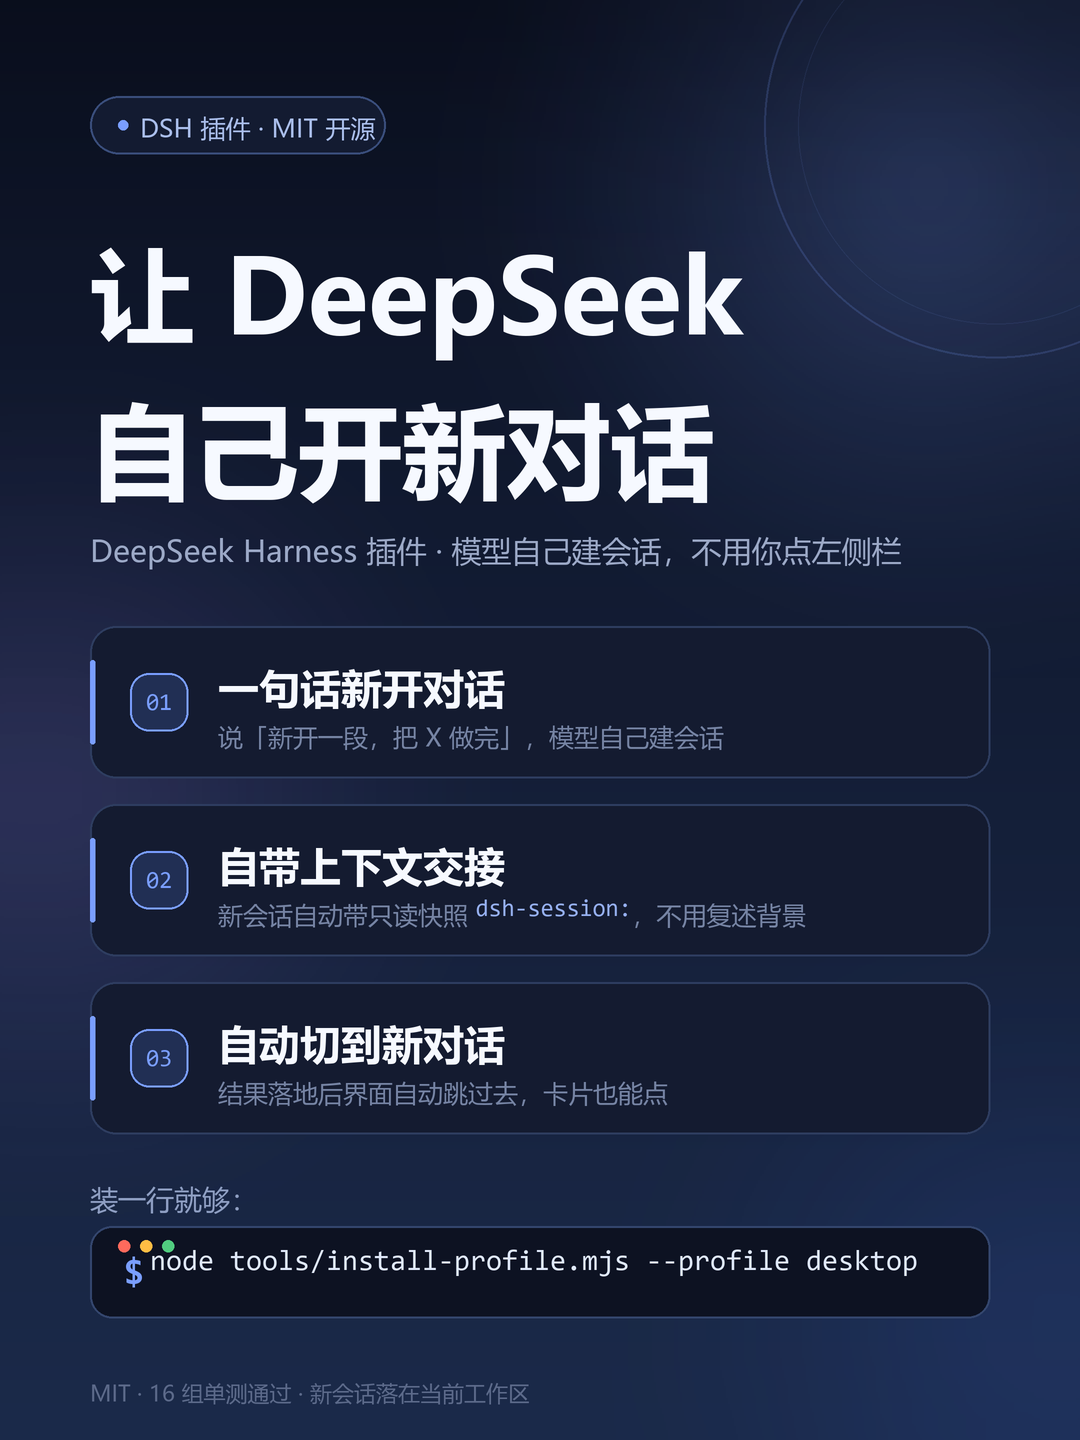
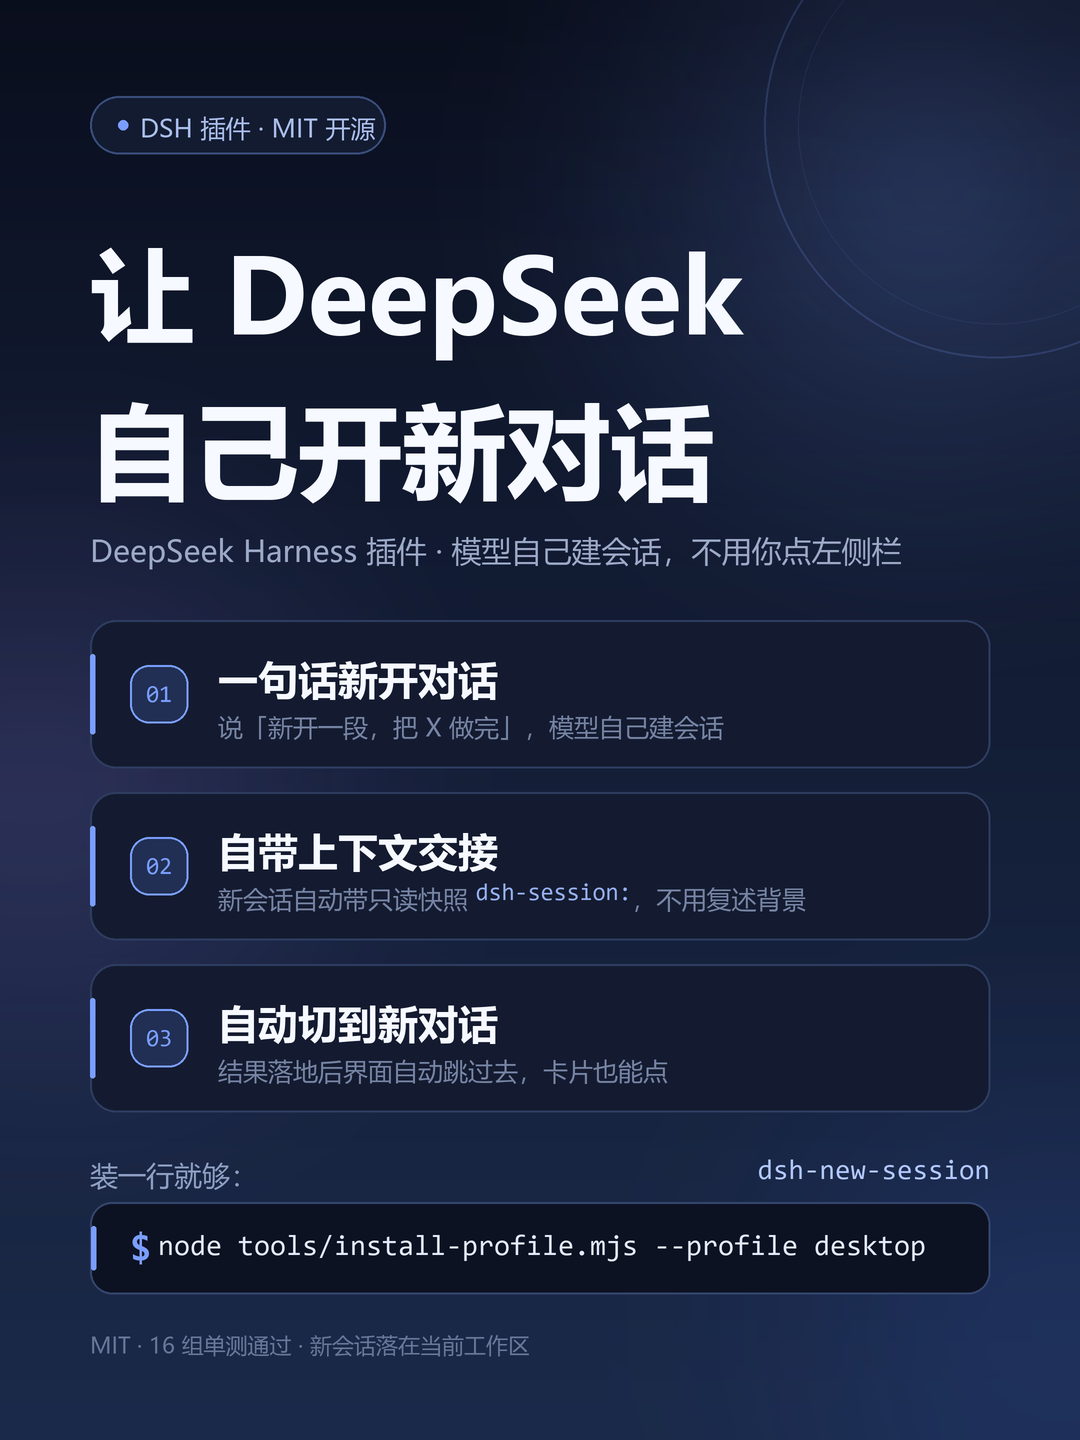
chore: 补齐 npm 元数据（repository/homepage/bugs/author）+ 小红书物料

Changed region(s): [[0.0611, 0.4375, 0.9167, 0.9688], [0.0611, 0.75, 0.0917, 0.7812], [0.0611, 0.6875, 0.0917, 0.7188]]

diff --git a/marketing/render_cover.py b/marketing/render_cover.py
@@ -252,26 +252,32 @@ def card(img, d, idx: int, title: str, note_segments, y: float, h: float) -> Non
 
     tx = bx + bs + 30
     tw = (x1 - 36) - tx
-    draw_line(d, title, BOLD_PATH, 41, (tx, y + 34), WHITE, max_w=tw, min_size=30, name="card%d-title" % idx)
-    draw_segments(d, note_segments, (tx, y + 94), max_w=tw, name="card%d-note" % idx)
+    draw_line(d, title, BOLD_PATH, 40, (tx, y + 32), WHITE, max_w=tw, min_size=30, name="card%d-title" % idx)
+    draw_segments(d, note_segments, (tx, y + 90), max_w=tw, name="card%d-note" % idx)
 
 
 def command_bar(img, d, cmd: str, y: float, h: float) -> None:
     x0, x1 = MARGIN, W - MARGIN
     d.rounded_rectangle([sc(x0), sc(y), sc(x1), sc(y + h)], radius=sc(22),
                         fill=BAR_FILL + (255,), outline=BAR_LINE + (255,), width=sc(2))
-    # 三个小圆点当终端窗饰
-    for i, c in enumerate([(255, 106, 92), (255, 189, 68), (81, 205, 128)]):
-        cx = x0 + 34 + i * 22
-        d.ellipse([sc(cx - 6), sc(y + 20 - 6), sc(cx + 6), sc(y + 20 + 6)], fill=c + (235,))
+    # 左侧电流高光条
+    d.rounded_rectangle([sc(x0) + sc(1), sc(y + 24), sc(x0) + sc(6), sc(y + h - 24)],
+                        radius=sc(3), fill=ACCENT + (200,))
 
-    px = x0 + 34
-    draw_line(d, "$", BOLD_PATH, 32, (px, y + h / 2 - 22), ACCENT, name="bar-$")
-    size = fit_size(d, cmd, MONO_PATH, 31, 19, (x1 - 34) - (px + 26))
+    px = x0 + 40
+    dollar_font = font(BOLD_PATH, 34)
+    db = measure(d, "$", dollar_font)
+    d.text((sc(px), sc(y + (h - (db[3] - db[1]) / SCALE) / 2 - db[1] / SCALE)),
+           "$", font=dollar_font, fill=ACCENT, anchor="la")
+    check("bar-$", (px, y, px + 26, y + h), (x0, y, x1, y + h))
+
+    text_x = px + 28
+    size = fit_size(d, cmd, MONO_PATH, 31, 19, (x1 - 34) - text_x)
     fnt = font(MONO_PATH, size)
-    d.text((sc(px + 26), sc(y + h / 2 - 24)), cmd, font=fnt, fill=(224, 233, 250), anchor="la")
     b = measure(d, cmd, fnt)
-    check("bar-cmd", (px + 26 + b[0] / SCALE, y, px + 26 + b[2] / SCALE, y + h), (x0, y, x1, y + h))
+    ty = y + (h - (b[3] - b[1]) / SCALE) / 2 - b[1] / SCALE
+    d.text((sc(text_x), sc(ty)), cmd, font=fnt, fill=(226, 235, 252), anchor="la")
+    check("bar-cmd", (text_x, y, text_x + b[2] / SCALE, y + h), (x0, y, x1, y + h))
 
 
 # ---------------------------------------------------------------- 主流程
@@ -296,8 +302,8 @@ def main() -> int:
     draw_line(d, sub, REG_PATH, 30, (MARGIN, sub_y), GRAY, max_w=CW, min_size=22, name="subtitle")
 
     # 三个卖点卡片
-    top = 626
-    ch, gap = 152, 26
+    top = 620
+    ch, gap = 148, 24
     card(img, d, 1, "一句话新开对话",
          [("说「新开一段，把 X 做完」，模型自己建会话", REG_PATH, 25, GRAY_DIM)], top, ch)
     card(img, d, 2, "自带上下文交接",
@@ -308,13 +314,22 @@ def main() -> int:
          [("结果落地后界面自动跳过去，卡片也能点", REG_PATH, 25, GRAY_DIM)], top + 2 * (ch + gap), ch)
 
     # 底部：装一行就够
-    label_y = top + 3 * (ch + gap) - gap + 46
+    label_y = top + 3 * (ch + gap) - gap + 44
     draw_line(d, "装一行就够：", REG_PATH, 28, (MARGIN, label_y), (142, 158, 194), name="label")
-    command_bar(img, d, "node tools/install-profile.mjs --profile desktop", label_y + 46, 92)
+    # 右侧插件名（等宽），与左侧小字同一行基线
+    name_font = font(MONO_PATH, 28)
+    nb = measure(d, "dsh-new-session", name_font)
+    nw = (nb[2] - nb[0]) / SCALE
+    nx = W - MARGIN - nw
+    d.text((sc(nx), sc(label_y + 2)), "dsh-new-session", font=name_font,
+           fill=(178, 200, 255), anchor="la")
+    check("pkg-name", (nx, label_y + 2, nx + nw, label_y + 38), (0, 0, W, H))
+    bar_y = label_y + 46
+    command_bar(img, d, "node tools/install-profile.mjs --profile desktop", bar_y, 92)
 
     # 页脚小字
     foot = "MIT · 16 组单测通过 · 新会话落在当前工作区"
-    draw_line(d, foot, REG_PATH, 22, (MARGIN, H - 62), (92, 106, 138), name="footer")
+    draw_line(d, foot, REG_PATH, 22, (MARGIN, bar_y + 128), (104, 119, 152), name="footer")
 
     # 输出与自检
     final = img.convert("RGB").resize((W, H), Image.LANCZOS)

diff --git a/marketing/copy.md b/marketing/copy.md
@@ -1,0 +1,28 @@
+# 模型说开不了新对话，我把它做出来了
+
+## 正文
+
+前几天在 DSH 里干活，做到一半想让模型自己开一段新对话接着做，就打了句「新开一段，把剩下的收尾做完」。它回我：新对话我开不了，那是界面操作，你得自己点左侧栏。当时真的有点窝火😅，明明一句话能说清的事，还得我手动切过去，再把前情复述一遍，来回两次就不想干了。
+
+说实话我第一反应是：那我自己写一个。翻了 DSH 的会话接口，写了这个插件 dsh-new-session。装完再去说「新开一段，把 X 做完」，模型真的自己把会话建出来了，我一下都没点。结果装完第一天，我基本没再碰过左侧栏。
+
+最爽的是三点连在一起：
+
+一，真的只要一句话。它自己建会话、自己把活接过去，不用我去左侧栏找按钮，和 codex 里说一句就新开一段是同一个手感。
+
+二，自带上下文交接。上一段对话会以 dsh-session: 的只读快照带进新会话，我不用再把背景重讲一遍，省下来的其实是最烦的那部分。
+
+三，自动切到新对话。结果落地后 Web UI 直接跳过去，卡片也能点；超过 3 分钟或者翻历史的时候，它不会突然把你的视图抢走。
+
+几个我自己比较在意的细节：新会话落在当前工作区，侧边栏里就能看见，不是建完就找不着的孤儿会话；标题用 user 来源钉住，不会被自动标题盖掉；宿主那半边零 @deepseek-ai/* import，不挑宿主小版本。16 组单测都过了，MIT，随便看。
+
+装就一行：
+
+node tools/install-profile.mjs --profile desktop
+
+开源在 https://github.com/CassiaTw1g/dsh-new-session ，用得上就拿走，遇到问题直接提 issue 🚀
+
+## 话题标签
+
+#DeepSeek #AI编程 #AI工具 #效率工具
+#开源项目 #AI插件 #独立开发
